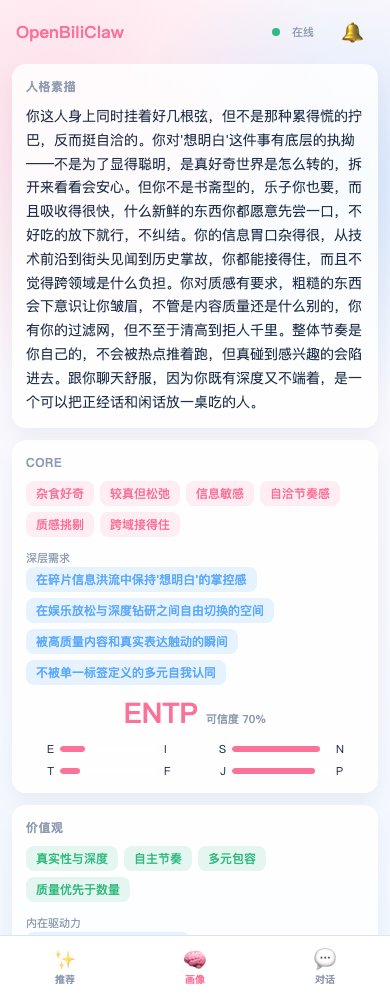
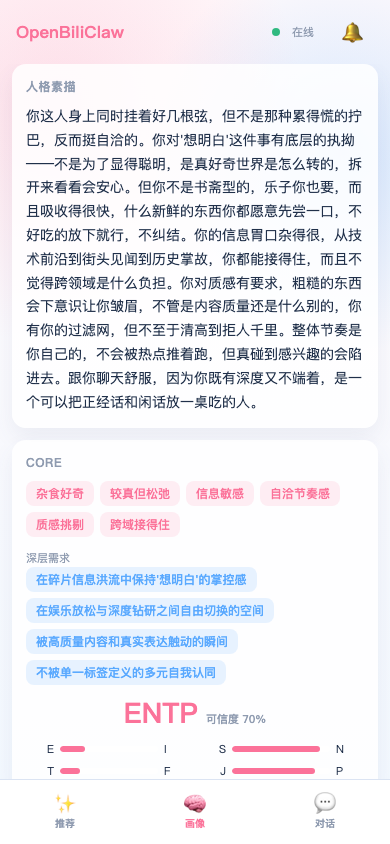
fix: compact mobile recommendation header

diff --git a/src/openbiliclaw/web/js/view-models.js b/src/openbiliclaw/web/js/view-models.js
@@ -75,6 +75,29 @@ const SOURCE_LABEL_MAP = {
   web: "Web",
 };
 
+const RUNTIME_TOPIC_LABEL_MAP = {
+  search: "站内搜索",
+  related_chain: "相关推荐",
+  trending: "站内热榜",
+  explore: "探索补池",
+  "xhs-extension-task": "小红书任务",
+  "xhs-extension-search": "小红书搜索",
+  "xhs-extension-profile": "小红书画像",
+  "xhs-extension-explore": "小红书探索",
+  "dy-plugin-search": "抖音搜索",
+  "dy-plugin-hot-related": "抖音热点",
+  "dy-plugin-feed": "抖音推荐流",
+  "douyin-search": "抖音搜索",
+  "douyin-hot": "抖音热点",
+  "douyin-feed": "抖音推荐流",
+  yt_search: "YouTube 搜索",
+  yt_trending: "YouTube 热榜",
+  yt_channel: "YouTube 频道",
+  youtube_search: "YouTube 搜索",
+  youtube_trending: "YouTube 热榜",
+  youtube_channel: "YouTube 频道",
+};
+
 export function normalizeSourcePlatform(item) {
   const explicit = normalizeText(item?.source_platform);
   if (explicit && SOURCE_LABEL_MAP[explicit]) return explicit;
@@ -92,6 +115,38 @@ export function normalizeSourcePlatform(item) {
 
 export function getSourceLabel(source) {
   return SOURCE_LABEL_MAP[source] || source || "Web";
+}
+
+function formatRuntimeTopicLabel(value) {
+  const text = normalizeText(value);
+  if (!text) return "";
+  const key = text.toLowerCase();
+  if (RUNTIME_TOPIC_LABEL_MAP[key]) return RUNTIME_TOPIC_LABEL_MAP[key];
+  if (key.startsWith("xhs-extension-")) return "小红书";
+  if (key.startsWith("dy-plugin-") || key.startsWith("douyin-")) return "抖音";
+  if (key.startsWith("yt-") || key.startsWith("youtube-")) return "YouTube";
+  return text;
+}
+
+function formatRuntimeTopicList(topics) {
+  const seen = new Set();
+  const labels = [];
+  for (const topic of Array.isArray(topics) ? topics : []) {
+    const label = formatRuntimeTopicLabel(topic);
+    if (!label || seen.has(label)) continue;
+    seen.add(label);
+    labels.push(label);
+  }
+  return labels.slice(0, 3).join(" / ");
+}
+
+function formatCompactRuntimeTopicList(topics) {
+  const full = formatRuntimeTopicList(topics);
+  return full
+    .replace(/小红书任务 \/ 小红书探索/g, "小红书任务 / 探索")
+    .replace(/小红书搜索 \/ 小红书探索/g, "小红书搜索 / 探索")
+    .replace(/抖音搜索 \/ 抖音热点/g, "抖音搜索 / 热点")
+    .replace(/YouTube 搜索 \/ YouTube 热榜/g, "YouTube 搜索 / 热榜");
 }
 
 // ── URL Builders ─────────────────────────────────────────────
@@ -357,12 +412,12 @@ export function getPoolStatusSummary(status) {
           : "这轮还没补进",
     topics:
       runtime.recent_pool_topics.length > 0
-        ? runtime.recent_pool_topics.join(" / ")
+        ? formatRuntimeTopicList(runtime.recent_pool_topics)
         : runtime.last_discovered_count > 0
           ? "但可立即换的库存还没变"
-        : poolIsSufficient
-          ? "先把这一池给你慢慢换开"
-          : "还在继续摸你的口味",
+          : poolIsSufficient
+            ? "先把这一池给你慢慢换开"
+            : "还在继续摸你的口味",
   };
 }
 
@@ -386,6 +441,7 @@ export function getMobileRecommendationHeaderState({
   runtimeEvent = null,
   activityExpanded = false,
 } = {}) {
+  const runtime = normalizeRuntimeStatus(runtimeStatus);
   const poolSummary = getPoolStatusSummary(runtimeStatus);
   const activity = getActivityCardState({
     feed: activityFeed,
@@ -406,9 +462,25 @@ export function getMobileRecommendationHeaderState({
     activityNextCursor: activity.next_cursor,
     poolChips: poolSummary
       ? [
-          { value: poolSummary.available, label: "当前可换", tone: "neutral" },
-          { value: poolSummary.replenished, label: "最近补进", tone: "brand" },
-          { value: poolSummary.topics, label: "现在在忙", tone: "info" },
+          { value: `${runtime.pool_available_count} 条`, label: "当前可换", tone: "neutral" },
+          {
+            value: runtime.manual_refresh_state === "running"
+              ? (runtime.pool_available_count > 0 ? "继续补" : "正在补")
+              : runtime.last_replenished_count > 0
+                ? `补进 ${runtime.last_replenished_count} 条`
+                : runtime.last_discovered_count > 0
+                  ? "已发现"
+                  : poolSummary.replenished,
+            label: "最近补进",
+            tone: "brand",
+          },
+          {
+            value: runtime.recent_pool_topics.length > 0
+              ? formatCompactRuntimeTopicList(runtime.recent_pool_topics)
+              : poolSummary.topics,
+            label: "现在在忙",
+            tone: "info",
+          },
         ]
       : [],
   };

diff --git a/src/openbiliclaw/web/css/app.css b/src/openbiliclaw/web/css/app.css
@@ -245,8 +245,8 @@ body {
   border: 1px solid rgba(225, 232, 241, 0.92);
   border-radius: 14px;
   box-shadow: var(--shadow-sm);
-  padding: 10px 12px;
-  margin-bottom: 12px;
+  padding: 9px 10px;
+  margin-bottom: 10px;
 }
 
 .recommend-header-top {
@@ -275,35 +275,44 @@ body {
 
 .recommend-title {
   margin-top: 4px;
-  font-size: 16px;
+  font-size: 15px;
   line-height: 1.25;
   font-weight: 800;
 }
 
 .recommend-refresh-btn {
   flex: 0 0 auto;
-  min-width: 82px;
-  padding-inline: 12px;
+  min-width: 76px;
+  padding-inline: 10px;
   background: var(--surface-strong);
 }
 
 .recommend-pool-grid {
-  display: grid;
-  grid-template-columns: repeat(3, minmax(0, 1fr));
+  display: flex;
   gap: 6px;
   margin-top: 8px;
+  overflow-x: auto;
+  overscroll-behavior-x: contain;
+  scrollbar-width: none;
+  -webkit-overflow-scrolling: touch;
+}
+
+.recommend-pool-grid::-webkit-scrollbar {
+  display: none;
 }
 
 .recommend-pool-chip {
   min-width: 0;
-  min-height: 54px;
+  max-width: 160px;
+  min-height: 30px;
+  flex: 0 0 auto;
   display: flex;
-  flex-direction: column;
-  justify-content: space-between;
-  gap: 4px;
-  padding: 7px 8px;
+  align-items: center;
+  justify-content: flex-start;
+  gap: 6px;
+  padding: 5px 8px;
   border: 1px solid var(--line);
-  border-radius: 12px;
+  border-radius: 999px;
   background: rgba(255, 255, 255, 0.72);
 }
 
@@ -322,42 +331,55 @@ body {
   line-height: 1;
   color: var(--text-muted);
   font-weight: 800;
+  flex: 0 0 auto;
 }
 
 .recommend-pool-value {
   min-width: 0;
-  font-size: 11px;
-  line-height: 1.35;
+  max-width: 94px;
+  font-size: 10px;
+  line-height: 1.2;
   color: var(--text-main);
   font-weight: 700;
-  overflow-wrap: anywhere;
+  overflow: hidden;
+  text-overflow: ellipsis;
+  white-space: nowrap;
+}
+
+.recommend-pool-chip[data-tone="info"] .recommend-pool-value {
+  max-width: 116px;
 }
 
 .recommend-activity-line {
-  min-height: 42px;
+  min-height: 32px;
   display: flex;
   align-items: center;
   justify-content: space-between;
   gap: 8px;
-  margin-top: 8px;
-  padding: 6px 8px 6px 10px;
-  border-radius: 12px;
+  margin-top: 6px;
+  padding: 5px 8px 5px 10px;
+  border-radius: 999px;
   background: var(--surface-soft);
   color: var(--text-secondary);
-  font-size: 12px;
+  font-size: 11px;
 }
 
 .recommend-activity-text {
   min-width: 0;
-  line-height: 1.4;
+  line-height: 1.25;
+  overflow: hidden;
+  text-overflow: ellipsis;
+  white-space: nowrap;
 }
 
 .recommend-activity-toggle {
-  width: 44px;
-  min-height: 32px;
+  width: auto;
+  min-width: 38px;
+  min-height: 30px;
+  padding-inline: 8px;
   border-radius: 999px;
   color: var(--sky);
-  font-size: 12px;
+  font-size: 11px;
   font-weight: 700;
   cursor: pointer;
   flex-shrink: 0;

diff --git a/src/openbiliclaw/web/js/views/recommend.js b/src/openbiliclaw/web/js/views/recommend.js
@@ -128,6 +128,7 @@ function renderRecommendationHeader() {
       const item = document.createElement("div");
       item.className = "recommend-pool-chip";
       item.dataset.tone = chip.tone;
+      item.title = `${chip.label}: ${chip.value}`;
       item.innerHTML = `
         <span class="recommend-pool-label">${esc(chip.label)}</span>
         <span class="recommend-pool-value">${esc(String(chip.value))}</span>`;

diff --git a/tests/test_mobile_web_view_models.py b/tests/test_mobile_web_view_models.py
@@ -257,6 +257,16 @@ class TestMobileWebViewModels:
             assert.equal(idle.available, "还有 34 条可换");
             assert.equal(idle.replenished, "刚补进 6 条");
             assert.equal(idle.topics, "游戏 / 编程");
+
+            const internal = getPoolStatusSummary({
+              initialized: true,
+              pool_available_count: 600,
+              pool_target_count: 600,
+              last_replenished_count: 1,
+              recent_pool_topics: ["xhs-extension-task", "xhs-extension-explore"],
+              manual_refresh_state: "idle",
+            });
+            assert.equal(internal.topics, "小红书任务 / 小红书探索");
         """))
 
     def test_mobile_recommendation_header_matches_plugin_semantics(self) -> None:
@@ -294,9 +304,27 @@ class TestMobileWebViewModels:
             assert.deepEqual(
               header.poolChips.map((chip) => [chip.label, chip.value, chip.tone]),
               [
-                ["当前可换", "还有 23 条可换", "neutral"],
-                ["最近补进", "刚补进 7 条", "brand"],
+                ["当前可换", "23 条", "neutral"],
+                ["最近补进", "补进 7 条", "brand"],
                 ["现在在忙", "城市影像 / 设备测评", "info"],
+              ],
+            );
+
+            const internal = getMobileRecommendationHeaderState({
+              runtimeStatus: {
+                initialized: true,
+                pool_available_count: 600,
+                pool_target_count: 600,
+                last_replenished_count: 1,
+                recent_pool_topics: ["xhs-extension-task", "xhs-extension-explore"],
+              },
+            });
+            assert.deepEqual(
+              internal.poolChips.map((chip) => [chip.label, chip.value]),
+              [
+                ["当前可换", "600 条"],
+                ["最近补进", "补进 1 条"],
+                ["现在在忙", "小红书任务 / 探索"],
               ],
             );
         """))

diff --git a/README.md b/README.md
@@ -97,7 +97,7 @@
     <td align="center" width="33%">
       <img src="docs/images/mobile-recommend.png" width="210" /><br/>
       <b>手机推荐页</b><br/>
-      <sub>换一批、加载更多、喜欢 / 不喜欢、聊一聊</sub>
+      <sub>换一批、加载更多、喜欢 / 不感兴趣、聊一聊</sub>
     </td>
     <td align="center" width="33%">
       <img src="docs/images/mobile-profile.png" width="210" /><br/>
@@ -210,7 +210,7 @@ openbiliclaw start --host 0.0.0.0 --port 8420
 http://<你的电脑局域网 IP>:8420/m/
 ```
 
-页面包含「推荐 / 画像 / 对话」三个底部 Tab，推荐页支持「换一批 / 加载更多 / 喜欢 / 不喜欢 / 写一句 / 聊一聊」，画像页展示核心画像、兴趣和认知更新，对话页与插件共享主聊天历史。
+页面包含「推荐 / 画像 / 对话」三个底部 Tab，推荐页支持「换一批 / 加载更多 / 喜欢 / 不感兴趣 / 写一句 / 聊一聊」，画像页展示核心画像、兴趣和认知更新，对话页与插件共享主聊天历史。
 
 也可以直接点插件顶部的手机图标，弹出二维码后用手机扫码打开当前后端对应的 `/m/`。
 

diff --git a/README_EN.md b/README_EN.md
@@ -64,7 +64,7 @@ All data lives in a single SQLite file on your disk. LLM calls use your own API 
     <td align="center" width="33%">
       <img src="docs/images/mobile-recommend.png" width="210" /><br/>
       <b>Recommendations</b><br/>
-      <sub>Reshuffle, load more, like / dislike, and chat</sub>
+      <sub>Reshuffle, load more, like / not interested, and chat</sub>
     </td>
     <td align="center" width="33%">
       <img src="docs/images/mobile-profile.png" width="210" /><br/>
@@ -152,7 +152,7 @@ Then open this on your phone:
 http://<your-computer-LAN-IP>:8420/m/
 ```
 
-The app has three bottom tabs: Recommendations, Profile, and Chat. Recommendations support reshuffle, load more, like, dislike, comments, and contextual chat. Profile shows the core profile, interests, and cognition updates. Chat shares the main chat history with the extension.
+The app has three bottom tabs: Recommendations, Profile, and Chat. Recommendations support reshuffle, load more, like, not interested, comments, and contextual chat. Profile shows the core profile, interests, and cognition updates. Chat shares the main chat history with the extension.
 
 You can also click the phone icon in the extension header and scan the QR code for the current backend's `/m/` URL.
 

diff --git a/docs/mobile-web-spec.md b/docs/mobile-web-spec.md
@@ -170,7 +170,7 @@ if web_dir.is_dir():
 
 移动端会在 `view-models.js` 中做最小字段适配：
 - 推荐池状态读取 `/api/runtime-status` 的 `pool_available_count`、`last_replenished_count`、`recent_pool_topics`，再映射成推荐页三枚 chip 使用的 `pool_size`、`recent_replenish`、`current_topic`。
-- 推荐页头部用 `getMobileRecommendationHeaderState()` 生成插件语义一致的标题、首屏「换一批」、三枚池状态 chip 和活动辅助行；移动端把「加载更多」保留为列表底部显式续页入口。
+- 推荐页头部用 `getMobileRecommendationHeaderState()` 生成插件语义一致的标题、首屏「换一批」、三枚池状态 chip 和活动辅助行；移动端把池状态压成横向轻量 pill，并把 `xhs-extension-*` / `dy-plugin-*` / `yt-*` 等内部来源名显示为用户可读短标签；「加载更多」保留为列表底部显式续页入口。
 - MBTI 维度兼容后端对象形态（如 `EI: { pole: "I", strength: 0.8 }`）和旧数组形态，统一映射为 `{ left, right, score }` 后再渲染。
 - MBTI 会保留后端 `confidence` 显示为“可信度”；内容口味将 `long/slow` 等 raw 枚举映射为“长视频 / 慢节奏”等中文标签；使用场景会显示 `session_type` 为“模式”。
 - 认知更新卡片会保留后端 `context_line` 与 `source_label`，即使前端已做过一次 normalize 后再次渲染，也不回退成泛化上下文。

diff --git a/docs/changelog.md b/docs/changelog.md
@@ -13,6 +13,7 @@
 - 移动 Web 资源噪声收敛：根路径 `/favicon.ico` 现在复用 PWA 图标返回 PNG；推荐页封面会过滤直接 403 的小红书 CDN URL、把 B 站 `http` / protocol-relative 封面升到 HTTPS，并用 `no-referrer` 加载外链图片，避免浏览器控制台残留 favicon / hotlink 错误。
 - 移动 Web 推荐页的惊喜推荐动作对齐浏览器插件：按钮改为「看看 / 喜欢 / 不感兴趣 / 聊一聊」，移除仅移动端存在的「稍后」，并把「喜欢」写入 `/api/delight/respond` 的 `like` 反馈。
 - 移动 Web 推荐页头部对齐插件：新增 `For You / 这几条，你大概会点开` 紧凑 header，把「换一批」放回首屏主操作位，池状态三枚 chip 改为「当前可换 / 最近补进 / 现在在忙」，活动状态降级为 header 内辅助行，「加载更多」移动到推荐列表底部。
+- 移动 Web 推荐页头部再次压缩移动端状态区：三枚池状态从大卡片改成横向轻量 pill，活动摘要改成单行；`xhs-extension-*`、`dy-plugin-*`、`yt-*` 等内部来源名会在移动端显示为用户可读的中文短标签。README 移动端预览说明同步使用「不感兴趣」文案。
 - 移动 Web 画像页补齐与插件一致的画像细节：MBTI 显示可信度，使用场景显示“模式”，内容口味把 `long/slow` 等 raw 值本地化为中文标签，认知更新卡片保留后端 `context_line` 与 `source_label`。
 - 移动 Web 对话页对齐插件主聊天会话：读取和提交都使用 `session=popup&scope=chat`，聊天回复完成后会刷新画像和活动流；消息 overlay 内的兴趣探测动作改为「喜欢 / 不喜欢 / 多聊聊」，惊喜推荐动作补齐「喜欢」，聊天输入框固定在底部并以两行高度起步，保留更多历史上下文可视空间。
 - 新增移动 Web 原生重设计 spec，明确 `/m/` 与浏览器插件在推荐、画像、对话、消息和 delight 工作流上的功能对齐范围，以及手机端独立信息架构。